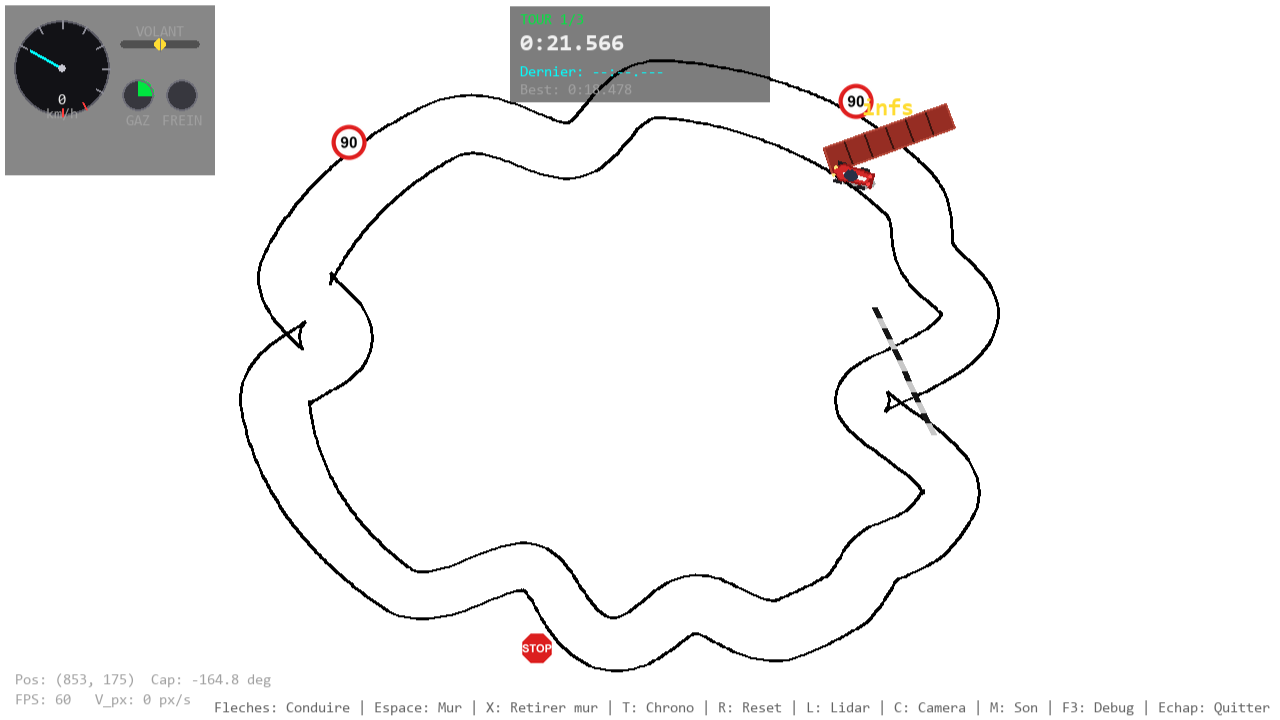
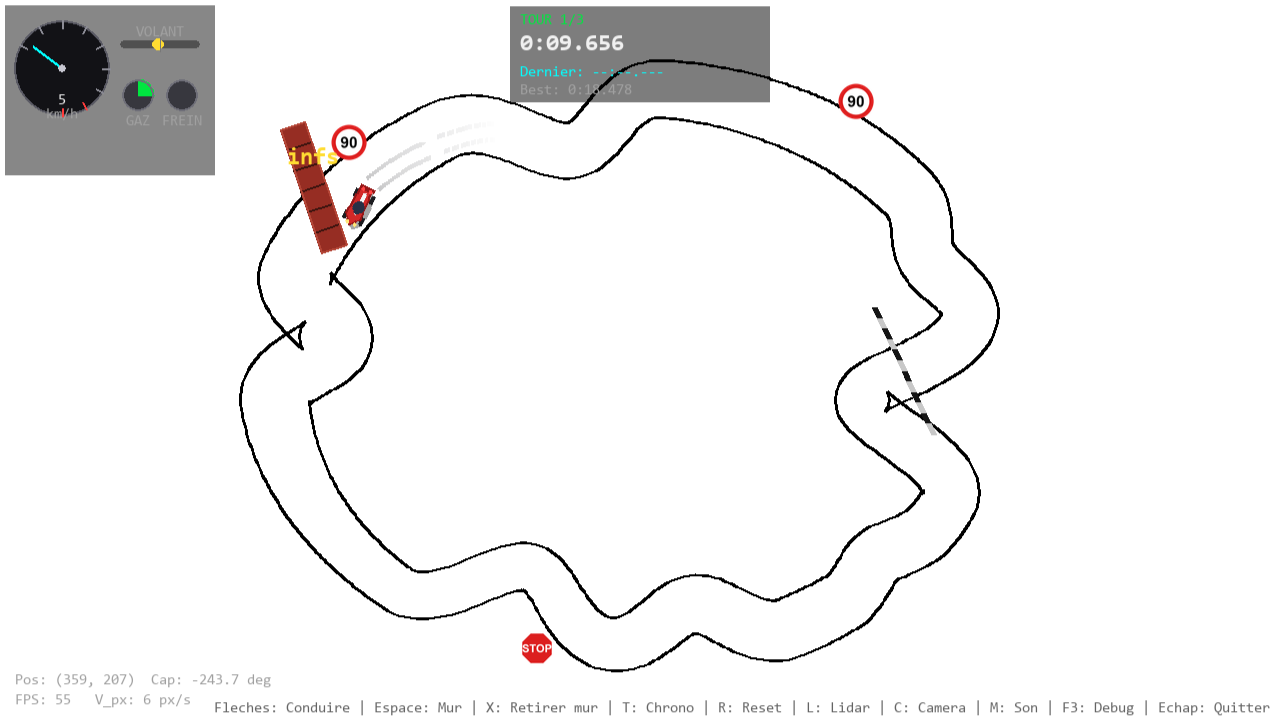
style(soutenance): page de garde typographique + nouvelle capture d'arret au mur
- S1 : le screenshot encadre part -- page de garde de rapport (kicker,
  titre, filet bleu, equipe, date) avec filigrane tres pale du trace
  gen_014 (retirable en supprimant .filigrane) ; filet et date integres
  a l'animation d'entree, etats anti-flash et statique a jour
- assets/game/mur-arret.png : nouvelle capture (rafale 0,3 s pendant la
  fenetre de freinage) -- la voiture arretee A DISTANCE du mur (5 km/h,
  traces de freinage visibles), plus collee dedans
- verifie : garde et S4 relues, S1 = 432 px, console 0 erreur

diff --git a/docs/soutenance/theme-twin.css b/docs/soutenance/theme-twin.css
@@ -252,35 +252,46 @@ html, body { background: var(--paper); color-scheme: light; }
 .reveal .cap b { color: var(--ink); font-weight: 700; }
 
 /* ============================================================================
-   S1 — TITRE (composition claire : titre + plaque produit encadrée)
+   S1 — TITRE (page de garde typographique : filigrane du tracé, filet, date)
    ============================================================================ */
 .reveal .slides > section[data-anim="intro"] {
   text-align: center;
   display: flex; flex-direction: column; justify-content: center;
+  overflow: hidden;
+}
+/* Filigrane : le tracé de gen_014 (dessin au trait) très pâle, décalé à
+   droite — motif de dossier technique. Retirer cette règle + l'<img> pour
+   une garde 100 % typographique. */
+.filigrane {
+  position: absolute; right: -12%; top: 50%; transform: translateY(-50%);
+  width: 62%; opacity: 0.055; pointer-events: none; user-select: none;
+  filter: grayscale(1);
 }
 .kicker {
   font-family: var(--f-body); font-size: 0.5em; text-transform: uppercase;
   letter-spacing: 0.2em; color: var(--accent-deep); font-weight: 700;
 }
 #titre-principal {
-  text-align: center; margin: 0.14em 0 0.12em;
-  font-weight: 800; font-size: 2.7em; letter-spacing: 0.01em; color: var(--ink);
+  text-align: center; margin: 0.18em 0 0.1em;
+  font-weight: 800; font-size: 2.9em; letter-spacing: 0.01em; color: var(--ink);
 }
 #titre-principal span { display: inline-block; }
 .soustitre {
-  text-align: center; font-size: 0.82em; color: var(--body);
+  text-align: center; font-size: 0.86em; color: var(--body);
   font-family: var(--f-body); font-weight: 400; letter-spacing: 0;
 }
-.hero-shot {
-  margin: 0.7em auto 0.5em; width: min(600px, 64%);
-}
-.hero-shot .hud-screen img {
-  height: 190px; object-fit: cover; object-position: 50% 54%;
+.filet-garde {
+  width: 3.2em; border: 0; border-top: 3px solid var(--accent);
+  border-radius: 2px; margin: 1.1em auto 1.0em;
 }
 .equipe {
-  text-align: center; font-size: 0.58em; color: var(--muted);
-  font-family: var(--f-body); letter-spacing: 0.16em; margin-top: 0.3em;
-  text-transform: uppercase; font-weight: 600;
+  text-align: center; font-size: 0.62em; color: var(--ink);
+  font-family: var(--f-body); letter-spacing: 0.14em; margin: 0;
+  text-transform: uppercase; font-weight: 650;
+}
+.date-garde {
+  text-align: center; font-size: 0.5em; color: var(--muted);
+  font-family: var(--f-body); margin-top: 0.5em;
 }
 
 /* ============================================================================
@@ -590,7 +601,7 @@ html, body { background: var(--paper); color-scheme: light; }
    déjà opacity:0 dans leur règle. anime.js revert() y retombe (rejeu OK).
    ============================================================================ */
 #titre-principal span,
-.soustitre, .equipe,
+.soustitre, .equipe, .filet-garde, .date-garde,
 .carte, .punchline,
 .boite,
 .tuile, .ligne-bonus,
@@ -606,6 +617,7 @@ html, body { background: var(--paper); color-scheme: light; }
    ============================================================================ */
 .statique #titre-principal span,
 .statique .soustitre, .statique .equipe,
+.statique .filet-garde, .statique .date-garde,
 .statique .carte, .statique .punchline, .statique .boite,
 .statique .tuile, .statique .ligne-bonus,
 .statique .svg-cam, .statique .svg-mask, .statique .fleche,
@@ -617,7 +629,8 @@ html, body { background: var(--paper); color-scheme: light; }
 }
 
 @media print, (prefers-reduced-motion: reduce) {
-  #titre-principal span, .soustitre, .equipe, .carte, .punchline, .boite,
+  #titre-principal span, .soustitre, .equipe, .filet-garde, .date-garde,
+  .carte, .punchline, .boite,
   .tuile, .ligne-bonus, .svg-cam, .svg-mask, .fleche, .honnete,
   .etape, .pipe-fleche, .galerie-circuits img, .result-graph {
     opacity: 1 !important;

diff --git a/docs/soutenance/index.html b/docs/soutenance/index.html
@@ -13,18 +13,16 @@
 <div class="reveal">
   <div class="slides">
 
-    <!-- 1. Titre -->
+    <!-- 1. Titre — page de garde typographique (filigrane du tracé gen_014,
+         retirable en supprimant .filigrane) -->
     <section data-anim="intro" data-sector="01" data-phase="Ouverture">
-      <p class="kicker">ESGI M1 — Architecture Logicielle &amp; IA Big Data · Juillet 2026</p>
+      <img class="filigrane" src="assets/circuits/gen_014.png" alt="" aria-hidden="true">
+      <p class="kicker">ESGI M1 — Architecture Logicielle &amp; IA Big Data</p>
       <h1 id="titre-principal">AUTONOMOUS&nbsp;TWIN</h1>
       <p class="soustitre">Jumeau numérique automobile — conduite autonome sur circuits inconnus</p>
-      <figure class="hero-shot">
-        <div class="hud-screen">
-          <span class="tag">Capture réelle · simulateur</span>
-          <img src="assets/game/course.png" alt="Le simulateur en course : la voiture rouge sur un circuit généré, chrono et panneaux limite visibles">
-        </div>
-      </figure>
+      <hr class="filet-garde" aria-hidden="true">
       <p class="equipe">Charles · Nohlan · Lorenzo</p>
+      <p class="date-garde">Soutenance M1 · Juillet 2026</p>
       <aside class="notes">
         Ouverture (Charles) : « Bonjour, nous allons vous présenter Autonomous Twin,
         un jumeau numérique automobile : un simulateur qui fait rouler une voiture,

diff --git a/docs/soutenance/animations.js b/docs/soutenance/animations.js
@@ -22,7 +22,9 @@ const ANIMS = {
         delay: stagger(45), duration: 700, ease: 'outExpo',
       })
       .add('.soustitre', { opacity: [0, 1], duration: 600 }, '-=300')
-      .add('.equipe', { opacity: [0, 1], duration: 600 }, '-=200');
+      .add('.filet-garde', { opacity: [0, 1], scaleX: [0, 1], duration: 500 }, '-=250')
+      .add('.equipe', { opacity: [0, 1], duration: 600 }, '-=200')
+      .add('.date-garde', { opacity: [0, 1], duration: 500 }, '-=350');
   },
 
   concept(slide) {